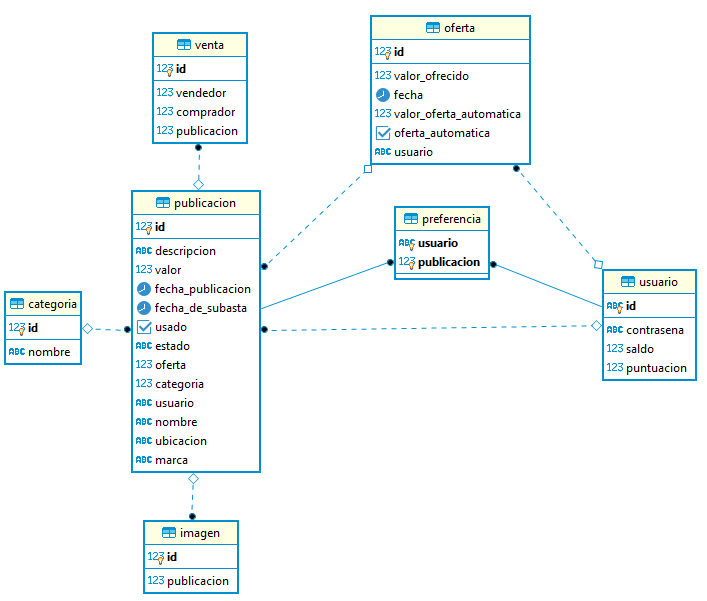
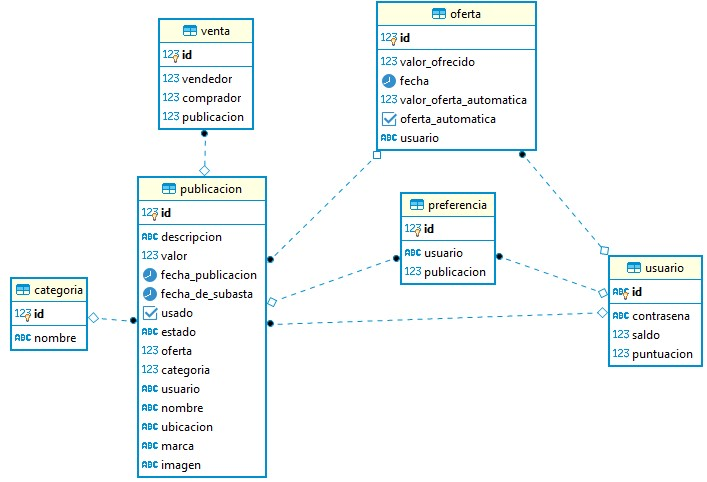
Conteo Artículo

Changed region(s): [[0.0, 0.0311, 0.4668, 0.9959], [0.4979, 0.0, 0.7779, 0.5913], [0.7779, 0.4357, 0.9958, 0.778]]

diff --git a/src/main/resources/static/js/articulo.js b/src/main/resources/static/js/articulo.js
@@ -16,29 +16,37 @@ var articulo =(function(){
 
 	
 	function addOferta() {
-		ultimaOferta = document.getElementById('valor').innerText;
+		ultimaOferta = parseInt(document.getElementById('valor').innerText,10);
 		cantidadAPujar = $('#puja').val();
-		saldoUsuario = document.getElementById('saldo').innerText;
-		if (saldoUsuario >= cantidadAPujar) {
-			if (cantidadAPujar > ultimaOferta) {
-				if (cantidadAPujar < (ultimaOferta * 1.05)) {
-					alert("Debe pujar al menos " + (ultimaOferta * 1.05));
-				} else {
-					lista = { valorOfrecido: cantidadAPujar, valorOfertaAutomatica: cantidadAPujar, ofertaAutomatica: false, usuario: document.getElementById('user').innerText };
-					//alert("oferta aceptada por: " + _id);
-					articuloCliente.saveOferta(lista, changeState, cantidadAPujar);
-					alert("Oferta aceptada por: " + cantidadAPujar);
+		saldoUsuario = parseInt(document.getElementById('saldo').innerText,10); 
+		if ("Publicado por: "+document.getElementById('user').innerText == document.getElementById('usuario').innerText){
+			alert("No puede ofertar por un artículo que usted publicó");
+		} else {
+			if (document.getElementById('clock').innerText.charAt(12) == "c") {
+				if (saldoUsuario >= cantidadAPujar) {
+					if (cantidadAPujar > ultimaOferta) {
+						if (cantidadAPujar < (ultimaOferta * 1.05)) {
+							alert("Debe pujar al menos " + (ultimaOferta * 1.05));
+						} else {
+							lista = { valorOfrecido: cantidadAPujar, valorOfertaAutomatica: cantidadAPujar, ofertaAutomatica: false, usuario: document.getElementById('user').innerText };
+							//alert("oferta aceptada por: " + _id);
+							articuloCliente.saveOferta(lista, changeState, cantidadAPujar);
+							alert("Oferta aceptada por: " + cantidadAPujar);
 
-					recargarCliente.recarga(document.getElementById('user').innerText, -(cantidadAPujar));
+							recargarCliente.recarga(document.getElementById('user').innerText, -(cantidadAPujar));
+						}
+					}
+					else {
+						alert("El monto a pujar debe ser mayor al de la última oferta");
+					}
 				}
-			}
-			else {
-				alert("El monto a pujar debe ser mayor al de la ultima oferta");
+				else {
+					alert("No tiene saldo suficiente, recargue más fondos");
+				}
+			} else {
+				alert("Este artículo no se está subastando actualmente");
 			}
 		}
-		else {
-			alert("No tiene saldo suficiente, recargue mas fondos");
-        }
 	}
 	
 	function changeState(result,valorOfrecido) {
@@ -57,7 +65,6 @@ var articulo =(function(){
 			if (art.usado){
 				$("#usado").html("Usado");
 			} else {$("#usado").html("Nuevo");}
-			$("#estado").html(art.estado);
 			articuloCliente.getCliente(art.oferta);
 			$("#categoria").html(art.categoria);
 			$("#usuario").html("Publicado por: "+art.usuario);
@@ -66,13 +73,14 @@ var articulo =(function(){
 			$("#marca").html(art.marca);
 			$("#imagen").html(art.imagen);
 			setImg();
+			var fecha = art.fechadeSubasta.charAt(0)+art.fechadeSubasta.charAt(1)+art.fechadeSubasta.charAt(2)+art.fechadeSubasta.charAt(3)+"-"+art.fechadeSubasta.charAt(5)+art.fechadeSubasta.charAt(6)+"-"+art.fechadeSubasta.charAt(8)+art.fechadeSubasta.charAt(9)+"T"+art.fechadeSubasta.charAt(11)+art.fechadeSubasta.charAt(12)+":"+art.fechadeSubasta.charAt(14)+art.fechadeSubasta.charAt(15);
+			fecha = new Date(fecha);
+			countdown(fecha, 'clock');
 	}
 	
 	function addToFavorite() {
-		alert(document.getElementById('user').innerText == document.getElementById('usuario').innerText);
-		alert(document.getElementById('user') == document.getElementById('usuario'));
-		if (document.getElementById('user').innerText == document.getElementById('usuario').innerText){
-			alert("No puede añadir a favoritos un artículo que publicó");
+		if ("Publicado por: "+document.getElementById('user').innerText == document.getElementById('usuario').innerText){
+			alert("No puede añadir a favoritos un artículo que usted publicó");
 		} else {
 			articuloCliente.addToFavorite(document.getElementById('user').innerText,_id);
 		}
@@ -98,6 +106,46 @@ var articulo =(function(){
 			elem.width = width;
 			elem.height = height;
 		});
+	}
+	
+	const getTime = deadline => {
+		let now = new Date(),
+			faltante = ((deadline - now + 1000)/1000),
+			adicional = faltante+180,
+			segundos = ('0' + Math.floor(faltante % 60)).slice(-2),
+			minutos = ('0' + Math.floor(faltante / 60 % 60)).slice(-2),
+			horas = ('0' + Math.floor(faltante / 3600 % 24)).slice(-2),
+			dias = Math.floor(faltante / (3600 * 24)),
+			segundosAd = ('0' + Math.floor(adicional % 60)).slice(-2),
+			minutosAd = ('0' + Math.floor(adicional / 60 % 60)).slice(-2);
+			
+			return {
+				faltante,
+				segundos,
+				minutos,
+				horas,
+				dias,
+				adicional,
+				minutosAd,
+				segundosAd
+			}
+	};
+	
+	const countdown = (deadline, elem) => {
+		const el = document.getElementById(elem);
+		
+		const timerUpdate = setInterval( () => {
+			let t = getTime(deadline);
+			if (t.faltante > 1){
+				el.innerHTML = "Tiempo para iniciar subasta: "+`${t.dias} Día(s) ${t.horas}h:${t.minutos}m:${t.segundos}s`;
+			} else if (t.adicional > 0) {
+				el.innerHTML = "Tiempo para cerrar la subasta: "+`${t.minutosAd}m:${t.segundosAd}s`;
+			}
+			else {
+				el.innerHTML = "Subasta finalizada"
+				clearInterval(timerUpdate);
+			}
+		}, 1000)
 	}
 	
 	

diff --git a/src/main/resources/static/publicar1.html b/src/main/resources/static/publicar1.html
@@ -16,8 +16,6 @@
 
 
 	  <link rel="stylesheet" href="https://stackpath.bootstrapcdn.com/bootstrap/4.3.1/css/bootstrap.min.css" integrity="sha384-ggOyR0iXCbMQv3Xipma34MD+dH/1fQ784/j6cY/iJTQUOhcWr7x9JvoRxT2MZw1T" crossorigin="anonymous">
-	  <link href="//cdnjs.cloudflare.com/ajax/libs/twitter-bootstrap/3.3.7/css/bootstrap.css" rel="stylesheet"/>
-	  <link href="//cdnjs.cloudflare.com/ajax/libs/bootstrap-datetimepicker/4.17.37/css/bootstrap-datetimepicker.css" rel="stylesheet"/>
 	  <link rel="stylesheet" href="./styles/general.css">
 	  
 	  <script src="js/categorias.js"></script>
@@ -117,26 +115,9 @@
 					</select>
 					<br></br>
 					
-					<div><h4>Fecha y hora de subasta:</h4></div>
-			
-					
-						
-								<div class="form-group">
-									<div class='input-group date' id='calendario2'>
-										<input type='text' id='calendario' class="form-control" />
-										<span class="input-group-addon">
-											<span class="glyphicon glyphicon-calendar"></span>
-										</span>
-									</div>
-								</div>
-								<script type="text/javascript">
-									$(function () {
-										$('#calendario2').datetimepicker();
-									});
-								</script>
-							
-					
-					
+					<h4>Fecha y hora de subasta:</h4>
+					<input type="text" placeholder="aaaa/mm/dd hh:mm" id="calendario" />
+					<br></br>
 					
 				</div>
 				
@@ -158,7 +139,7 @@
 			</div>
 		</div>			
 		
-		<cen><button type="button" class="btn btn-primary btn-lg" onclick="publicar1.setValues()">Publicar</button></cen>
+		<cen2><button type="button" class="btn btn-primary btn-lg" onclick="publicar1.setValues()">Publicar</button></cen2>
 		<br></br><br></br><br></br>
 	</body>
 </html>

diff --git a/src/main/resources/static/articulo.html b/src/main/resources/static/articulo.html
@@ -82,8 +82,8 @@
 			<div class="col-lg-15">
 				<p style="width: 100%; height: 10em" <h4 id="descripcion"></h4>
 				<h4 id="fecha_de_subasta"></h4>
+				<h4><span id="clock"></span></h4>
 				<h4 id="usado"></h4>
-				<h4 id="estado"></h4>
 				<h4 id="ubicacion"></h4>
 				<h4 id="oferta"></h2>
 			</div>
@@ -94,7 +94,7 @@
 	
 	<cen>
 		<h2>Valor Actual:</h2>
-		<h2 class="valor" id="valor">50000</h2><br></br>
+		<h2 class="valor" id="valor"></h2><br></br>
 
 		<div>
 			<form id="Ofertar" action="javascript:articulo.addOferta()">

diff --git a/src/main/java/edu/escuelaing/arsw/auctions/model/Publicacion.java b/src/main/java/edu/escuelaing/arsw/auctions/model/Publicacion.java
@@ -1,8 +1,6 @@
 package edu.escuelaing.arsw.auctions.model;
 import javax.persistence.*;
 
-import com.fasterxml.jackson.annotation.JsonFormat;
-
 import java.io.Serializable;
 import java.util.Date;
 
@@ -24,9 +22,8 @@ public class Publicacion implements Serializable{
         @Column(name="fecha_publicacion")
         Date fechaPublicacion;
         
-        @JsonFormat(shape = JsonFormat.Shape.STRING, pattern = "dd/MM/yyyy hh:mm aa")
         @Column(name="fecha_de_subasta")
-        Date fechadeSubasta;
+        String fechadeSubasta;
         
         @Column(name="usado")
         boolean Usado;
@@ -110,11 +107,11 @@ public class Publicacion implements Serializable{
 	public void setDescripcion(String Descripcion) {
 		this.Descripcion = Descripcion;
 	}
-	public Date getFechadeSubasta() {
+	public String getFechadeSubasta() {
 		return fechadeSubasta ;
 	}
 
-	public void setFechadeSubasta(Date fechadeSubasta) {
+	public void setFechadeSubasta(String fechadeSubasta) {
 		this.fechadeSubasta = fechadeSubasta;
 	}
 	

diff --git a/src/main/java/edu/escuelaing/arsw/auctions/Repository/impl/PublicacionRepositoryImpl.java b/src/main/java/edu/escuelaing/arsw/auctions/Repository/impl/PublicacionRepositoryImpl.java
@@ -75,9 +75,6 @@ public class PublicacionRepositoryImpl implements PublicacionRepositoryCustom {
 
 	@Override
 	public void setOferta(int valor, int ofertaid, int publicacionId) {
-		System.out.println(valor);
-		System.out.println(ofertaid);
-		System.out.println(publicacionId);
 			Query query = entityManager.createNativeQuery("update publicacion set valor=?,oferta=? where id=?",Publicacion.class);
         
         query.setParameter(1,valor )
